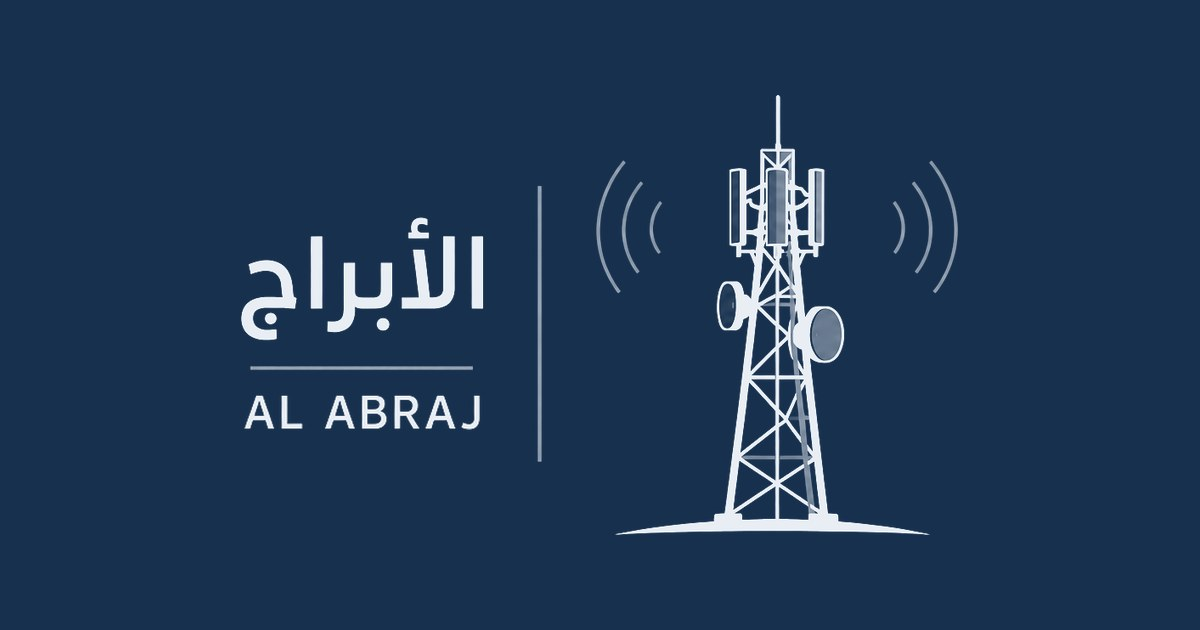
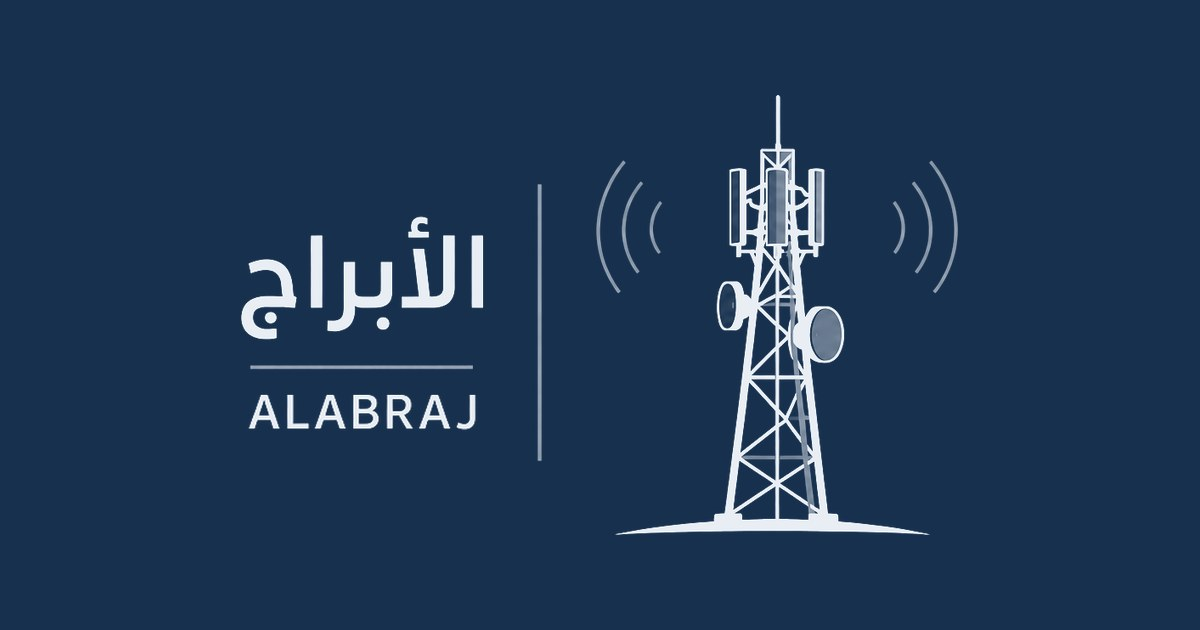
V2-Change from Al Abraj to Alabraj
changes in name

diff --git a/index.html b/index.html
@@ -5,14 +5,14 @@
   <meta name="viewport" content="width=device-width, initial-scale=1, viewport-fit=cover">
   <meta http-equiv="Content-Security-Policy" content="default-src 'none'; style-src 'self'; img-src 'self'; font-src 'self'; base-uri 'none'; form-action 'none'; upgrade-insecure-requests">
   <meta name="referrer" content="strict-origin-when-cross-origin">
-  <title>Al Abraj | Coming Soon · الأبراج | قريباً</title>
-  <meta name="description" content="Al Abraj — Doha, Qatar. Our website is coming soon.">
+  <title>Alabraj | Coming Soon · الأبراج | قريباً</title>
+  <meta name="description" content="Alabraj — Doha, Qatar. Our website is coming soon.">
   <meta name="theme-color" content="#16304E">
   <link rel="canonical" href="https://alabraj.qa/">
 
   <meta property="og:type" content="website">
   <meta property="og:url" content="https://alabraj.qa/">
-  <meta property="og:title" content="Al Abraj · الأبراج — Coming Soon">
+  <meta property="og:title" content="Alabraj · الأبراج — Coming Soon">
   <meta property="og:description" content="Doha, Qatar">
   <meta property="og:image" content="https://alabraj.qa/assets/og-image.jpg">
   <meta name="twitter:card" content="summary_large_image">
@@ -31,7 +31,7 @@
       <picture>
         <source srcset="/assets/logo.webp" type="image/webp">
         <img src="/assets/logo.png" width="844" height="518"
-             alt="الأبراج — Al Abraj">
+             alt="الأبراج — Alabraj">
       </picture>
     </h1>
 
@@ -42,7 +42,7 @@
   </main>
 
   <footer>
-    <span>© 2026 Al Abraj · Doha, Qatar</span>
+    <span>© 2026 Alabraj · Doha, Qatar</span>
   </footer>
 </body>
 </html>

diff --git a/404.html b/404.html
@@ -6,7 +6,7 @@
   <meta http-equiv="Content-Security-Policy" content="default-src 'none'; style-src 'self'; img-src 'self'; font-src 'self'; base-uri 'none'; form-action 'none'">
   <meta http-equiv="refresh" content="0; url=/">
   <meta name="robots" content="noindex">
-  <title>Al Abraj</title>
+  <title>Alabraj</title>
   <link rel="stylesheet" href="/assets/style.css">
 </head>
 <body>
